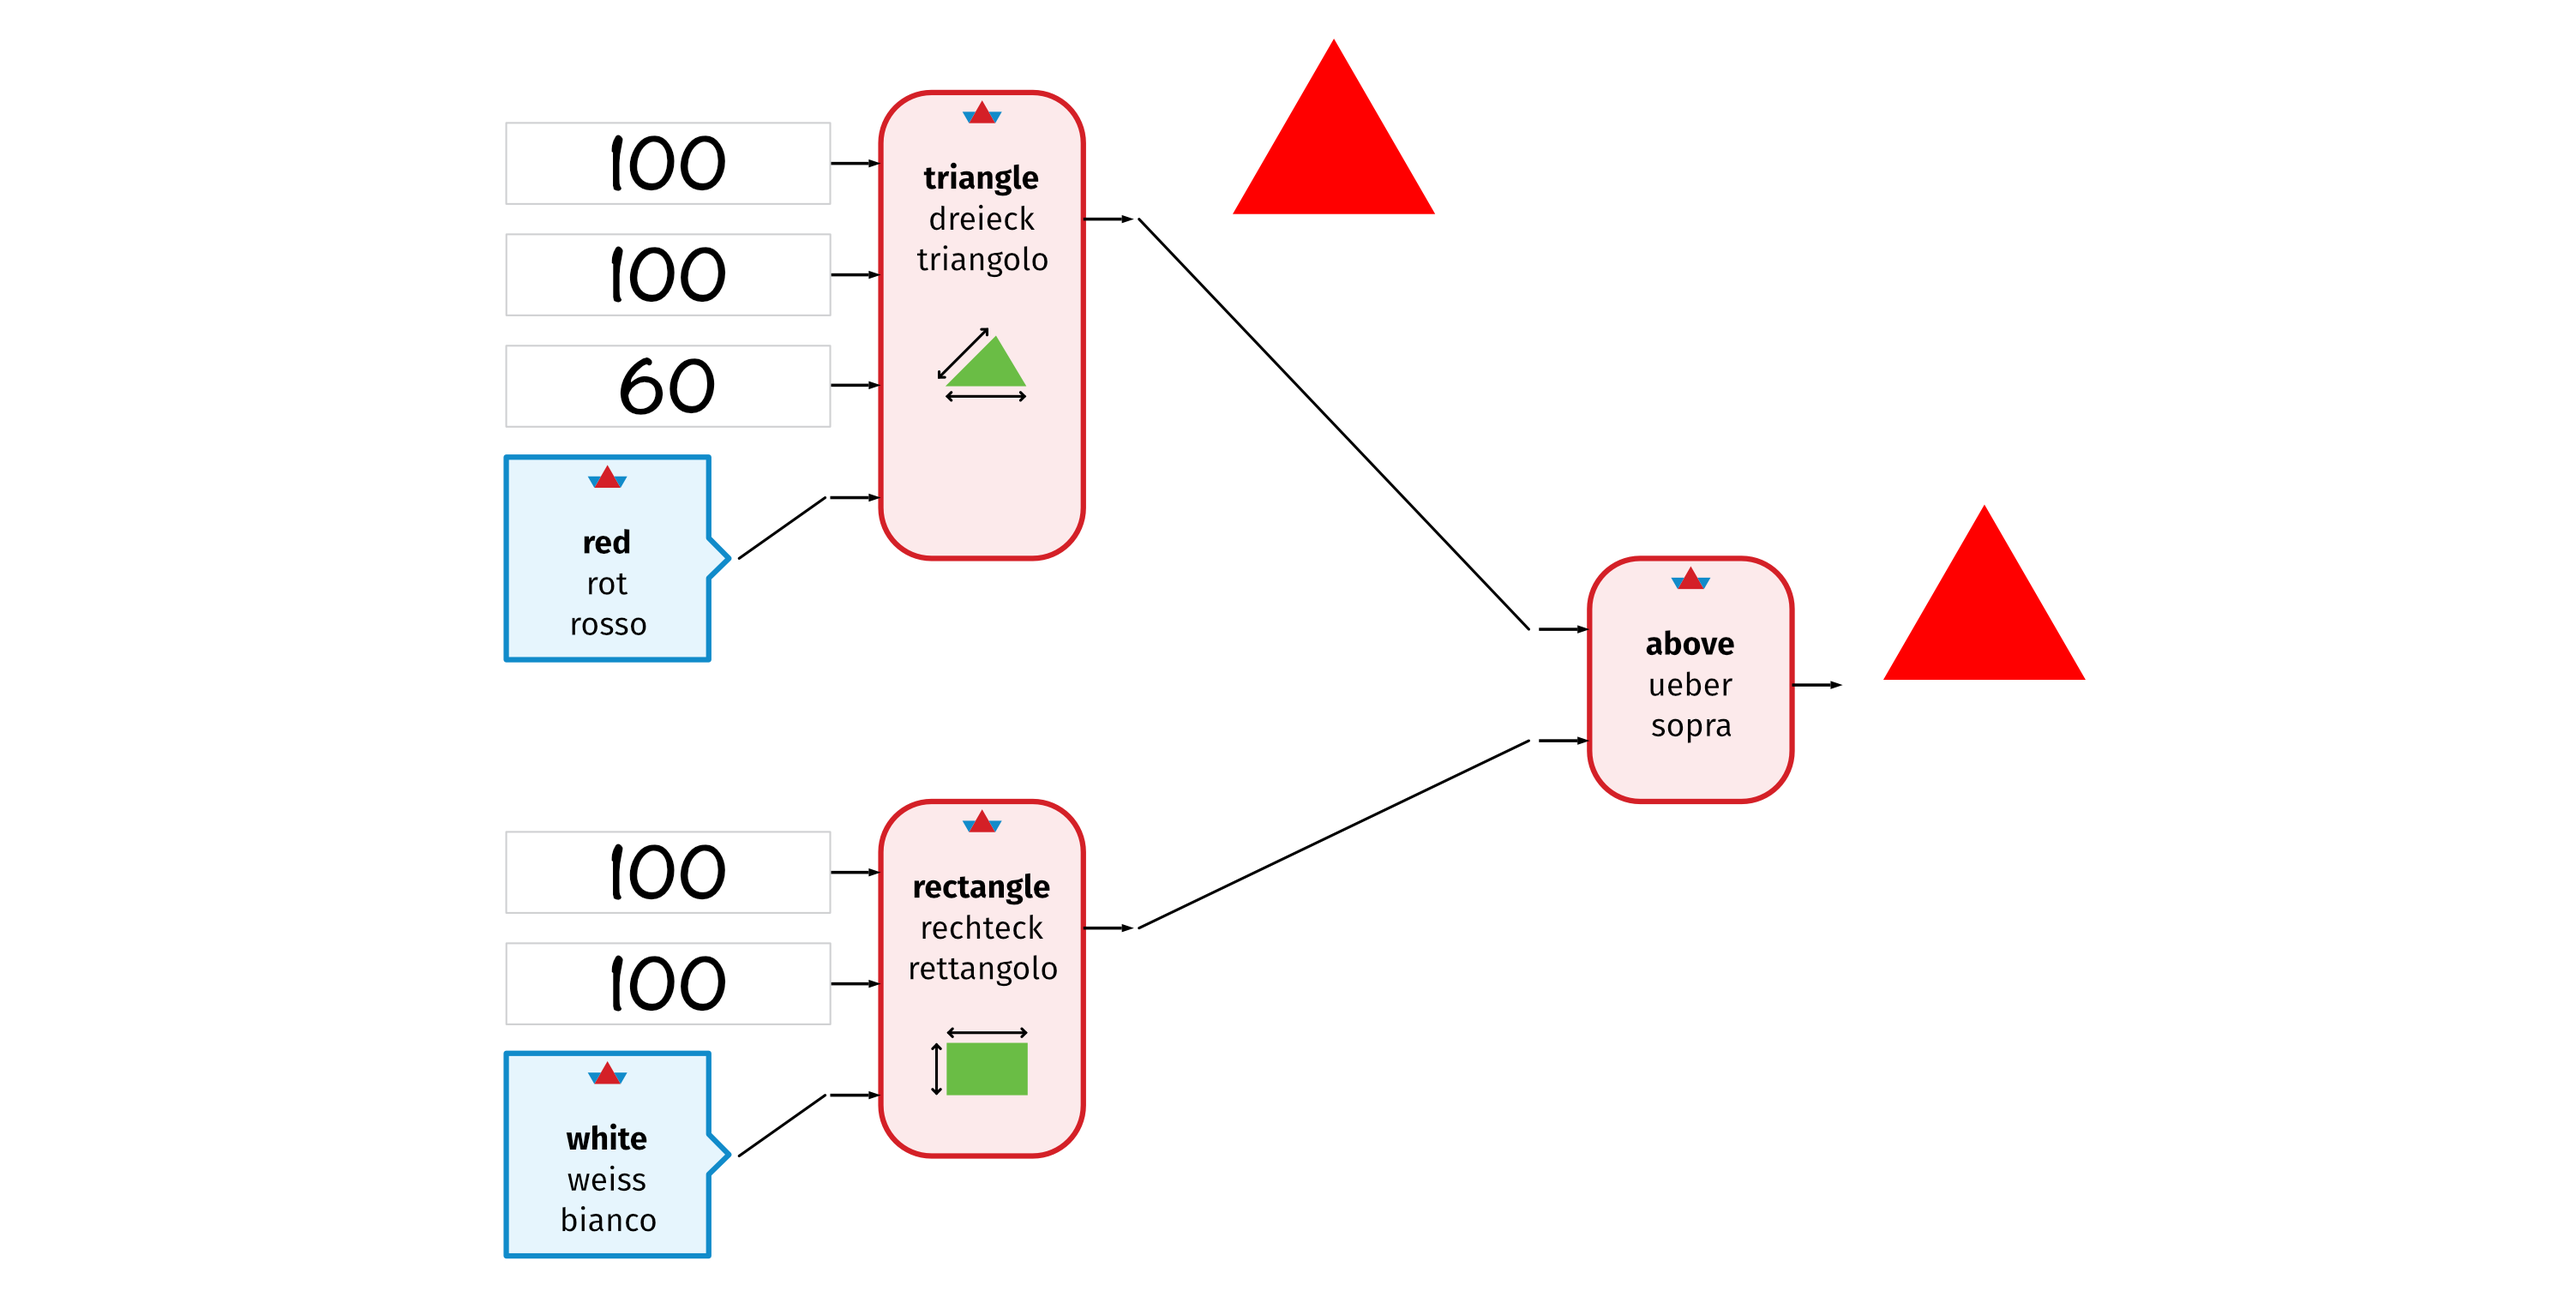
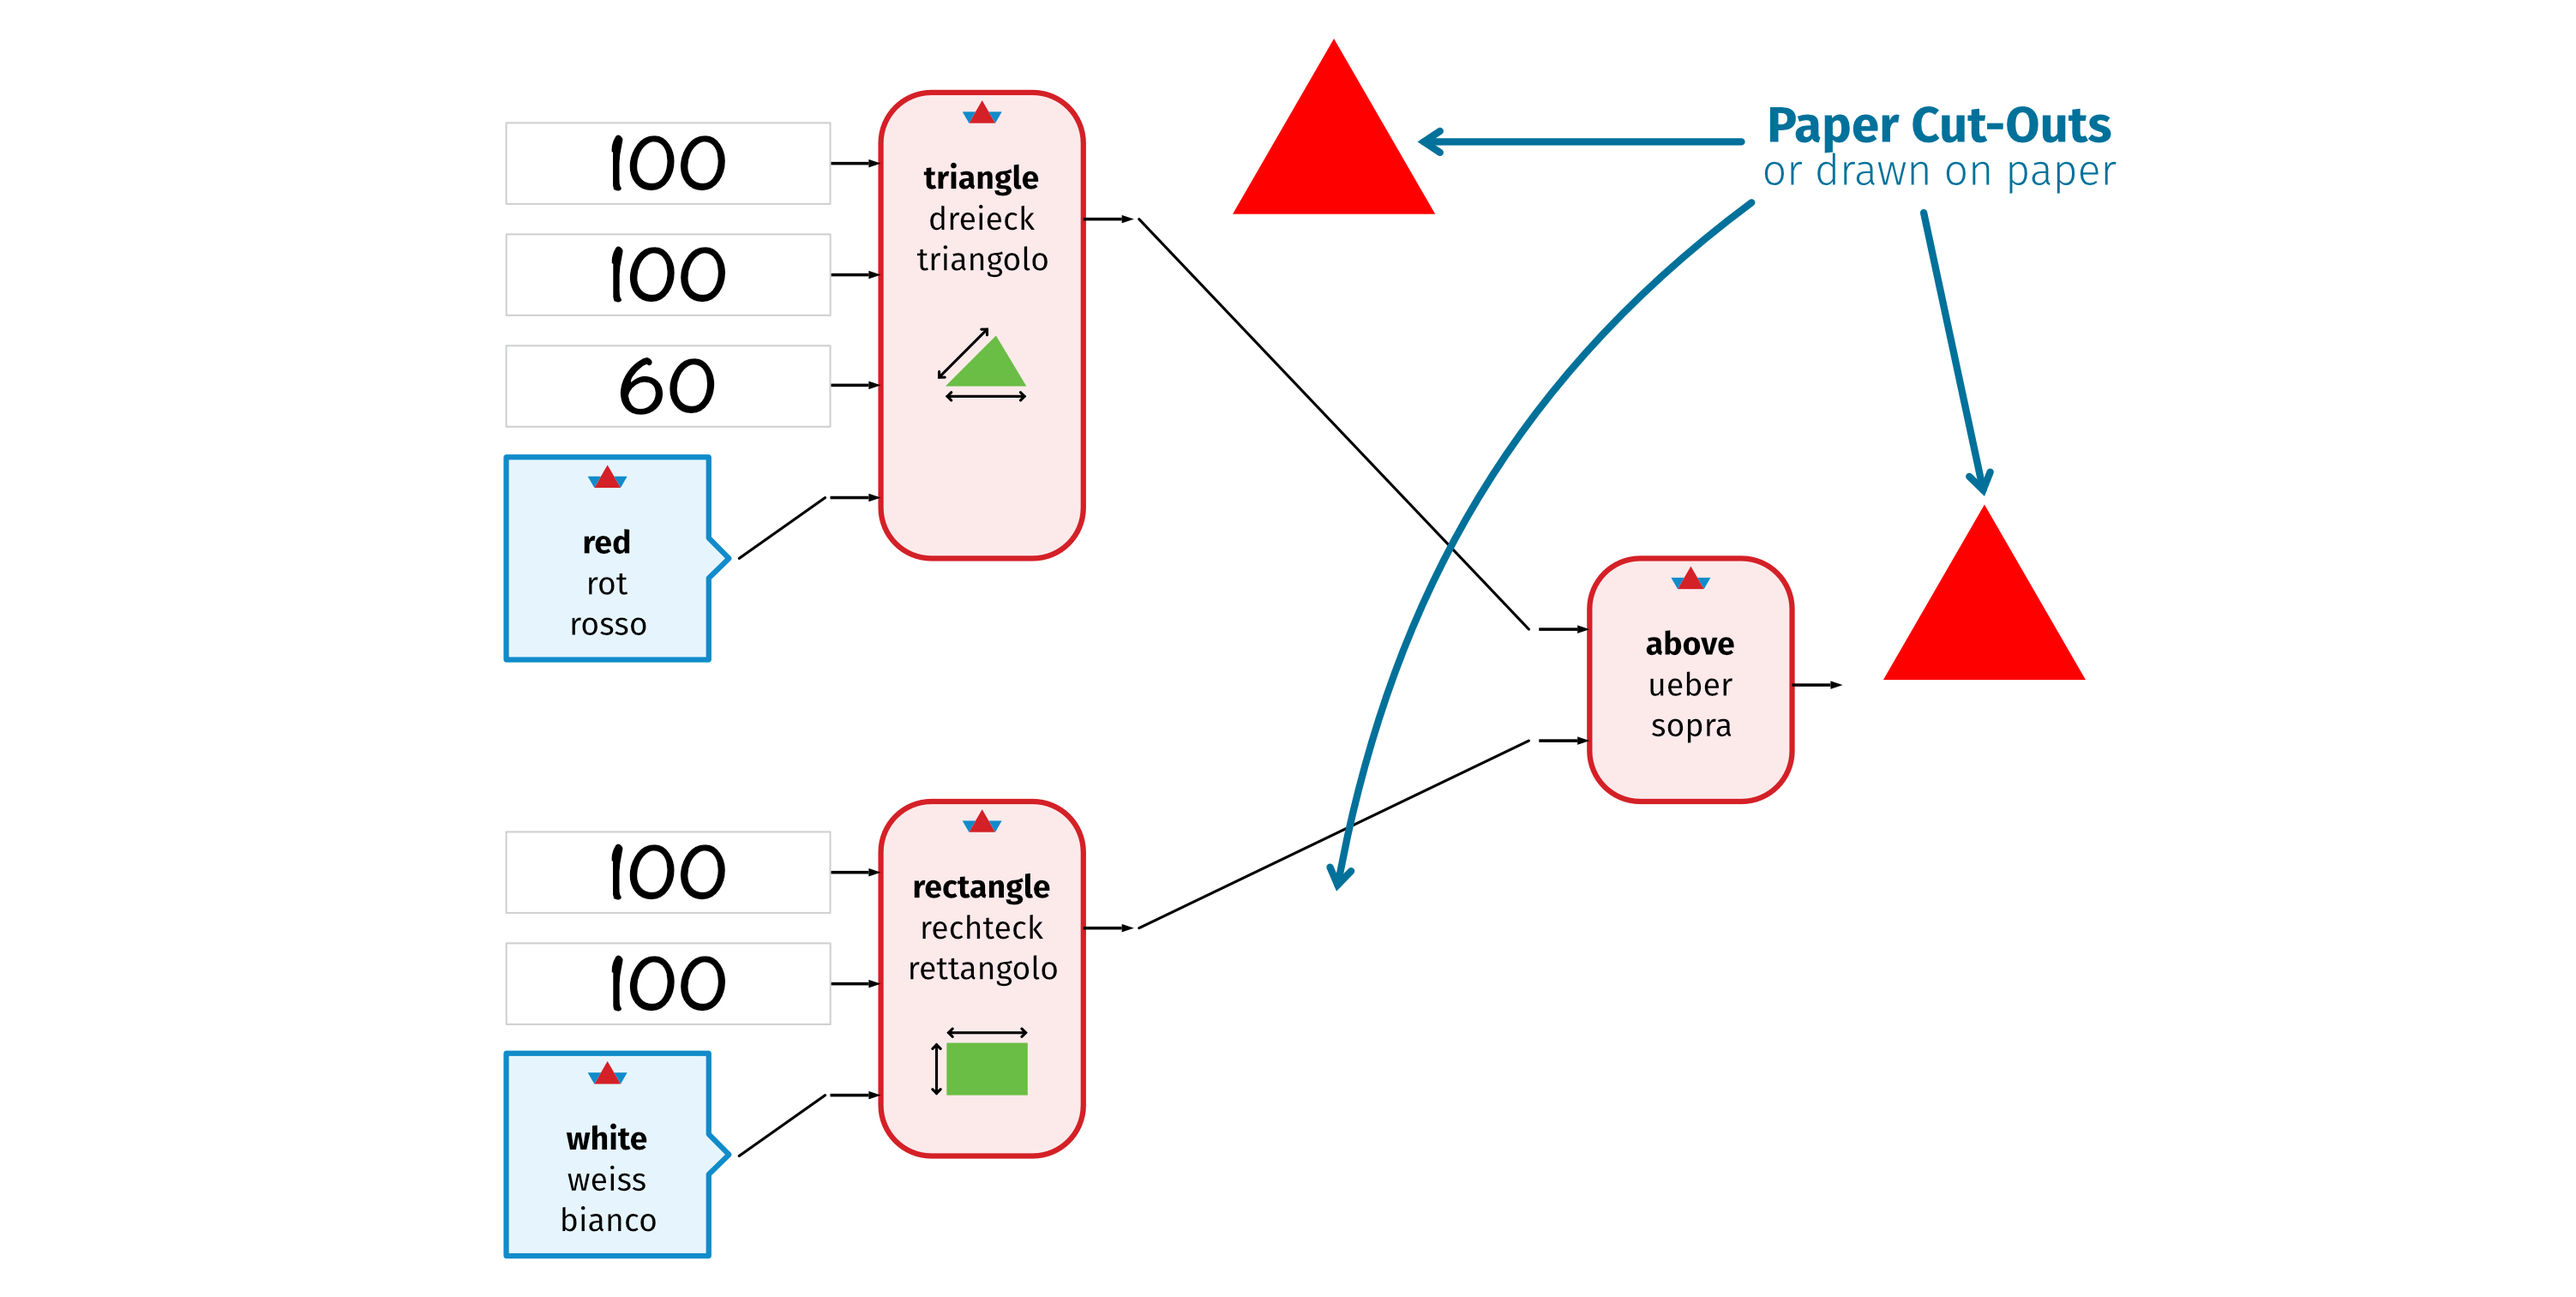
improved TamaroCard evaluation description

diff --git a/pages/tamarocards/index.tsx b/pages/tamarocards/index.tsx
@@ -288,11 +288,16 @@ export default function TamaroCardsPage() {
           />
 
           <Typography marginY={1}>
-            When composing or interpreting an expression,
-            students can annotate the visual expression with the values emitted by the cards.
-            Values of built-in types (int, float, str, bool) are written as normal Python literals.
-            Values of PyTamaro types (Graphic, Color, Point) are drawn graphically;
-            graphics can even be cut out from colored sheets of paper.
+            Students can annotate the visual expression with the values emitted by the cards.
+            They don't necessarily need to annotate each card:
+            showing the values produced by the literal cards
+            (which literally are the values written on the card)
+            doesn't add any information;
+            and showing the values produced by the constant cards (like colors)
+            may not add much either.
+            We usually focus on annotating values that are graphics,
+            either by drawing that graphic,
+            or by producing and placing a paper cut-out of that graphic.
           </Typography>
 
           <Typography variant="h5" marginY={3}>
